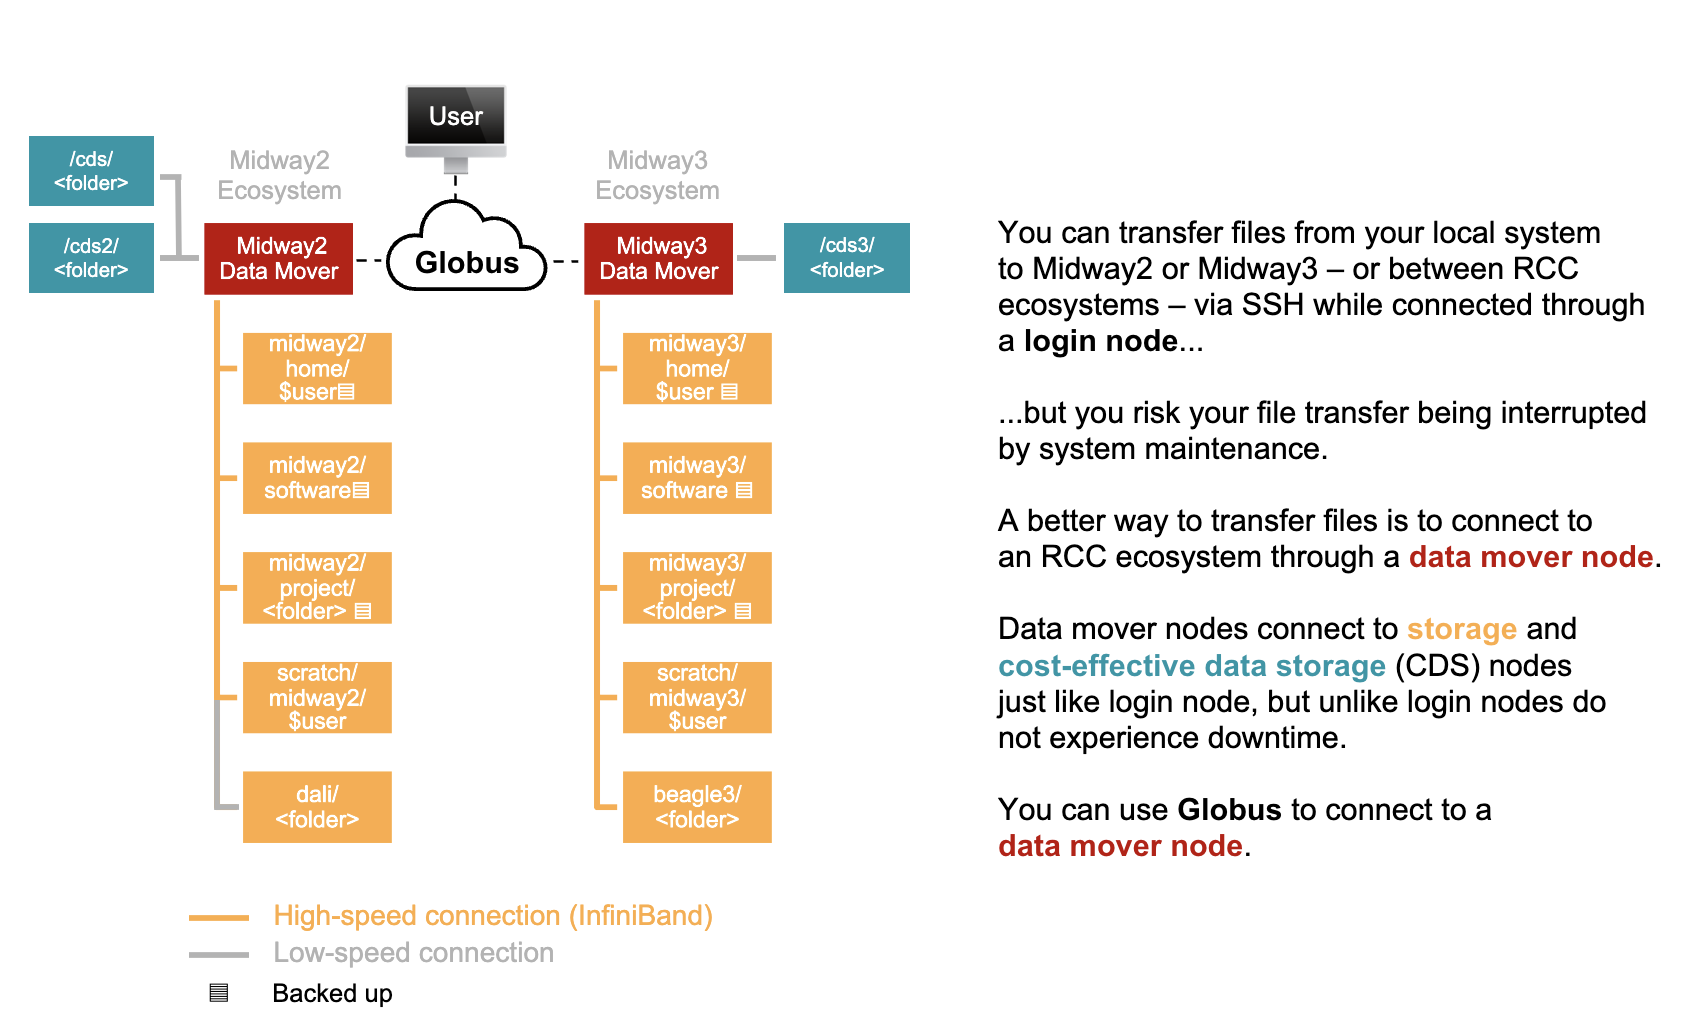
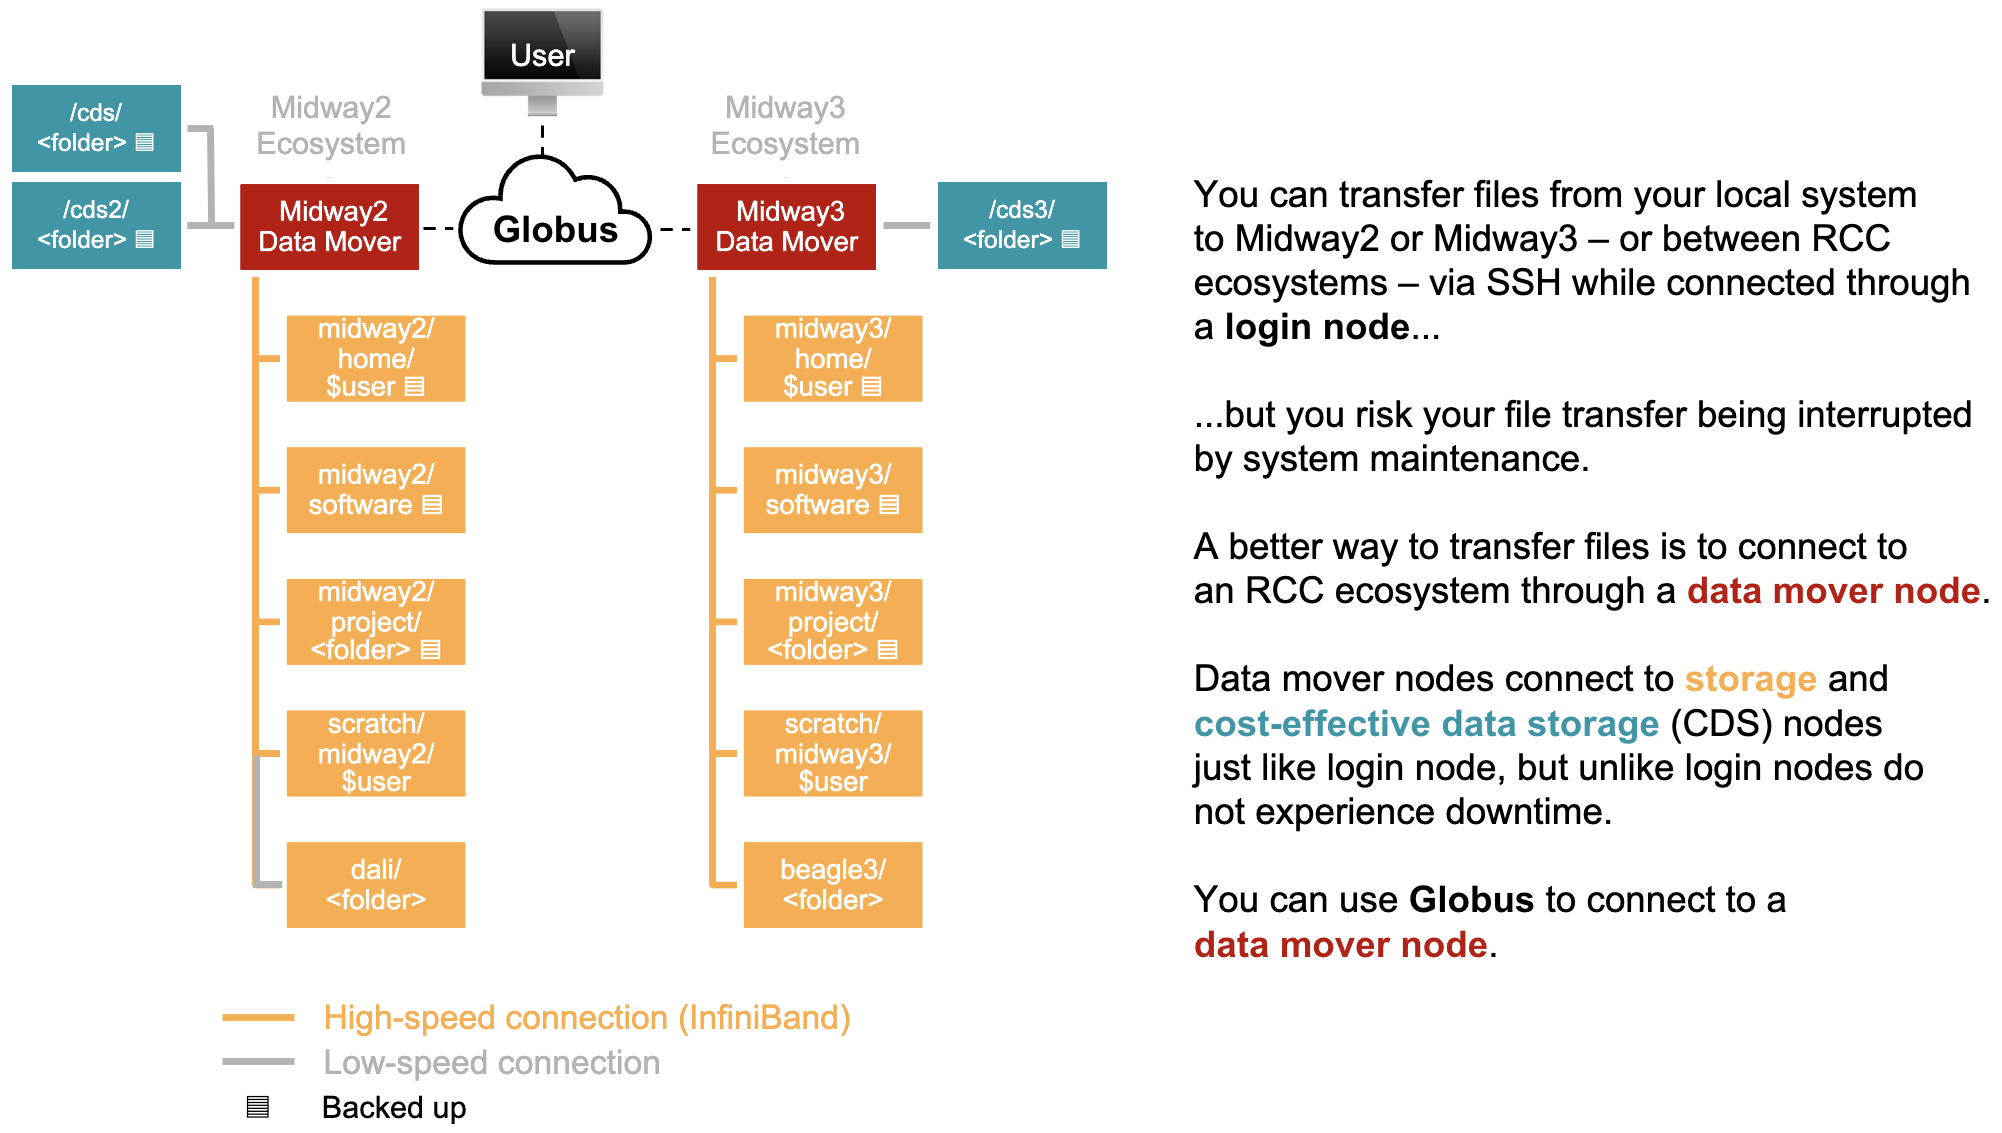
Update Globus diagram to show CDS is backed up

diff --git a/docs/globus.md b/docs/globus.md
@@ -1,39 +1,87 @@
-# Globus (Advance file transfer and sharing platform) 
-Globus Online is a robust tool for transferring large data files to/from Midway. RCC has a customized Globus Online login site.
+# Login to Globus & Browse Your Files
 
-Go to [globus.rcc.uchicago.edu](https://globus.rcc.uchicago.edu) and Select “University of Chicago” for the existing organizational login:
+**Globus** is a robust file sharing and transfer service. This guide explains how to use Globus to browse files you have stored in an RCC ecosystem (Midway2 or Midway3). Guides to making your computer a Globus endpoint (so you can transfer files between your local system and RCC ecosystems) and to scheduling data transfers with Globus are coming soon!
 
-![Globus Landing Page](img/data_management/globus_landing_page.png){ width=600 }
+## Why Use Globus?
+
+<p align='center'>
+<img src='figs/globus-diagram.png'
+width='650'
+alt='You can transfer files from your local system to Midway2 or Midway3 – or between RCC ecosystems – via SSH while connected through a login node, but you risk your file transfer being interrupted by system maintenance.A better way to transfer files is to connect to an RCC ecosystem through a data mover node. Data mover nodes connect to storage and cost-effective data storage (CDS) nodes just like login node, but unlike login nodes do not experience downtime. Globus and Samba (SMB) are two ways to connect to a data mover node.'/>
+</p>
+
+## Login to Globus
+
+Go to [globus.rcc.uchicago.edu](). Select "University of Chicago" from the drop-down list of existing organizational logins and click "Continue":
+
+<p align='center'>
+<img src='figs/globus-login.png'
+width='650'
+alt='The University of Chicago Globus landing page. "University of Chicago" is selected from the drop-down menu.'/>
+</p>
 
 Enter your CNetID and password when prompted:
 
-![Globus Landing Page](img/data_management/globus_cnet_login.png){ width=600 }
+<p align='center'>
+<img src='figs/cnet.png'
+width='650'
+alt='University of Chicago CNetID sign-in page.'/>
+</p>
 
-You must link your University of Chicago credentials to a Globus Online account. Either create a new Globus Online account or sign in to your existing account if you have one.
+## Set Up Your Account
 
-Once signed in, select the "File Manager" tab on the sidebar, then enter "ucrcc#midway". You can select "UChicago RCC Midway" to access your Midway2 files or "UChicago RCC Midway3" to access your Midway3 files.
+If you are accessing Globus with your University of Chicago login for the first time, you will need to set up your account. If your account is already set up, skip ahead to [Browse Your Files](##browse-your-files).
 
-List of endpoints (collections): 
+When you first login, you will see an option to link your University of Chicago login to an existing Globus account. Click "Link to an existing account" if you have another Globus account. Otherwise click "Continue":
 
-=== "DaLI"
-    ```
-    UChicago RCC DaLI
-    ```
+<p align='center'>
+<img src='figs/link-account.png'
+width='650'
+alt='A message on the University of Chicago Globus landing page: This is the first time you are accessing Globus with your University of Chicago login. If you have previously used Globus with another login you can link it to your University of Chicago login. When linked, both logins will be able to access the same Globus account permissions and history.'/>
+</p>
 
-=== "Midway2"
-    ```
-    UChicago RCC Midway
-    ```
+If you are accessing Globus with your University of Chicago login for the first time, you will need to agree to the Globus Terms of Service and Privacy Policy:
 
-===+ "Midway3, Midway3-AMD, MidwaySSD, Beagle3"
-    ```
-    UChicago RCC Midway3
-    ```
+<p align='center'>
+<img src='figs/complete-sign-up.png'
+width='650'
+alt='A webpage that says "Complete Your Sign Up". The box indicating the user has agreed to the Terms of Service and Privacy Policy is checked.'/>
+</p>
 
-![Globus Landing Page](img/data_management/globus_endpoints.png){ width=600 }
+If you are accessing Globus with your University of Chicago login for the first time, you will need to configure your Globus permissions:
 
-You will then be able to perform actions such as transferring files, sharing collections, or creating new directories. To learn more about using these tools, please refer to the "Help" tab on the left toolbar.
+<p align='center'>
+<img src='figs/globus-permissions.png'
+width='650'
+alt='A list of permissions requested by the RCC Globus Web App with options to allow or deny.'/>
+</p>
 
-![Globus Landing Page](img/data_management/globus_interface.png){ width=600 }
+## Browse Your Files
 
-There is extensive documentation on the [Globus Online](https://docs.globus.org/) site on transferring files in different modes. Please refer to their documentation for more details or contact us with any RCC-specific issues.
+Once you have signed in, click the "File Manager" tab in the toolbar on the left of your screen and type "University of Chicago Research Computing Center" into the collection search bar. The RCC manages three Globus collections (also called endpoints):
+
+<p align='center'>
+<img src='figs/collection-search.png'
+width='650'
+alt='Globus web app open to the File Manager tab. "University of Chicago Research Computing Center" is typed into the collection search bar.'/>
+</p>
+
+:::{.callout-note title="RCC-Managed Globus Collections"}
+**DaLI** is a collection within the RCC's Midway2 ecosystem. It provides additional storage for PI's who contributed to the DaLI grant. When you select the DaLI collection, you land in Midway2's `/dali/` directory.
+
+**Midway** houses files from the RCC's older ecosystem, Midway2.
+
+**Midway3** houses files from the RCC's newer ecosystem, Midway3. 
+
+When you select the **Midway** or **Midway3** collection, you land in your personal Midway2 or Midway3 home directory, `/home/<cnet-id>`, denoted by a `/~/` path. Click "up one folder" to reach the top-level directory, where you can access software, scratch space, and more.
+:::
+
+To see files in different collections at the same time, click the "two panes" icon next to "Panels" in the upper-right corner:
+
+<p align='center'>
+<img src='figs/two-panes.png'
+width='650'
+alt='Globus File Manager in two-pane mode with Midway2 files in the left pane and Midway3 files in the right pane.'/>
+</p>
+
+See Transfer Files with Globus for helping moving files between collections. The guide also describes how to make your computer a Globus endpoint, so you can move files between your local system and RCC ecosystems (Midway2 and Midway3)
